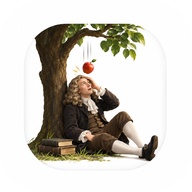
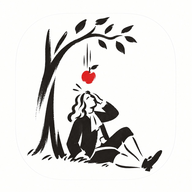
v3.15：App 图标换成牛顿苹果树参考图

Changed region(s): [[0.125, 0.0938, 0.8438, 0.9062]]

diff --git a/index.html b/index.html
@@ -270,7 +270,7 @@ if ('serviceWorker' in navigator) {
         <label><input type="checkbox" id="chk-wakelock" checked><span class="k">屏幕常亮</span><span class="sub">播放时保持</span></label>
         <p class="hint">书籍、进度、Key 只存本机，不上传。阅读时选中正文文字点"AI 讲解"，或点播放条上的 ✦。</p>
       </div>
-      <div class="ver">DeepRead v3.14</div>
+      <div class="ver">DeepRead v3.15</div>
     </div>
   </main>
 

diff --git a/sw.js b/sw.js
@@ -1,5 +1,5 @@
 /* Deepreading service worker：应用壳离线缓存 */
-const CACHE = 'deepreading-v3.14';
+const CACHE = 'deepreading-v3.15';
 const CORE = [
   './', './index.html', './manifest.json',
   './icon-192.png', './icon-512.png', './banner-ink.jpg',

diff --git a/css/styles.css b/css/styles.css
@@ -1,4 +1,4 @@
-/* DeepRead v3.14 — 纯白 */
+/* DeepRead v3.15 — 纯白 */
 *{box-sizing:border-box;-webkit-tap-highlight-color:transparent}
 :root{
   --bg:#ffffff; --card:#ffffff; --ink:#1d1d1f; --sub:#86868b; --line:#e8e8ec;
